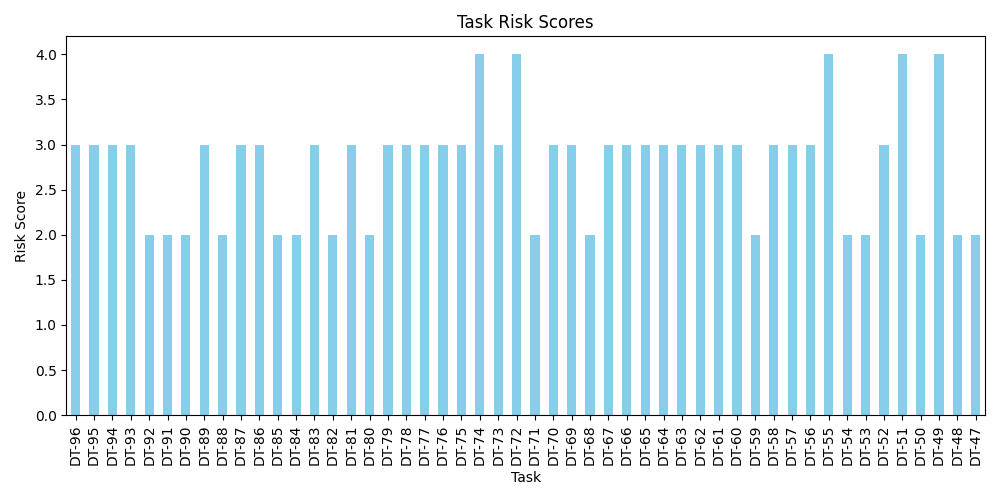
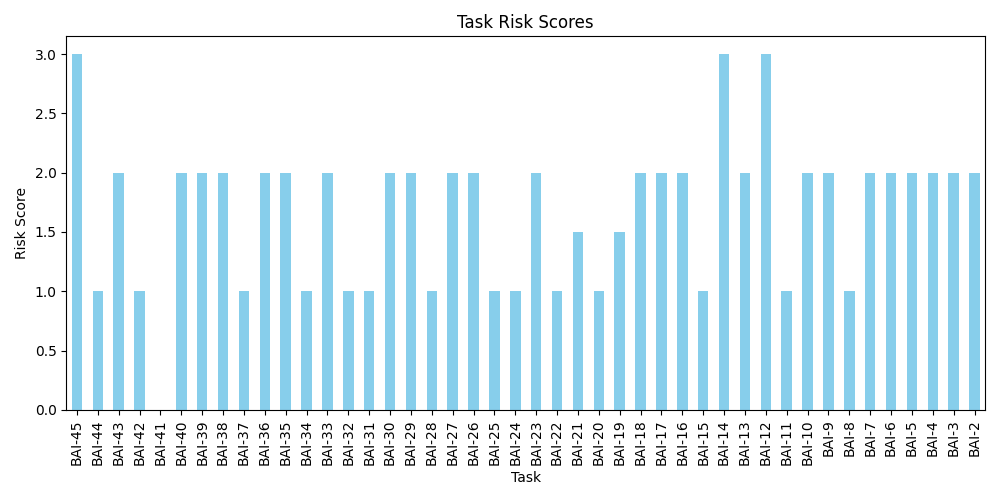
BAI

Changed region(s): [[0.0, 0.09, 0.992, 0.93]]

diff --git a/main.py b/main.py
@@ -20,7 +20,7 @@ load_dotenv()
 email = os.getenv("JIRA_EMAIL")
 api_token = os.getenv("JIRA_API_TOKEN")
 domain = os.getenv("JIRA_DOMAIN")
-project_key = os.getenv("JIRA_PROJECT_KEY", "DT")
+project_key = os.getenv("JIRA_PROJECT_KEY", "BAI")
 url = f"https://{domain}/rest/api/3/search/jql"
 
 headers = {
@@ -95,7 +95,7 @@ def fetch_and_analyze():
             "timeoriginalestimate",
             "timespent",
             "customfield_10016",   # story points
-            "customfield_10073"    # expertise
+            "customfield_10139"    # expertise (BAI projesi)
         ]
     }
 
@@ -119,7 +119,7 @@ def fetch_and_analyze():
         assignee_data = fields.get("assignee")
         assignee_name = assignee_data["displayName"] if assignee_data else "Unassigned"
 
-        expertise_data = fields.get("customfield_10073")
+        expertise_data = fields.get("customfield_10139")
         if isinstance(expertise_data, dict):
             expertise = expertise_data.get("value", "Belirtilmemiş")
         elif expertise_data:
